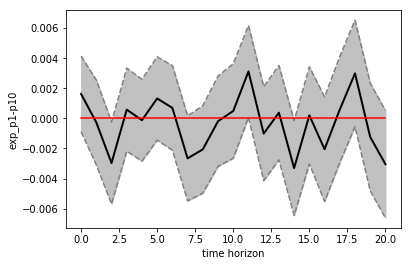
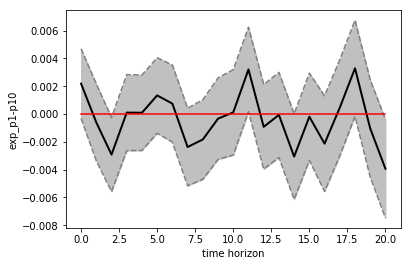
version

diff --git a/analysis/7_LP_estimation.py b/analysis/7_LP_estimation.py
@@ -70,7 +70,7 @@ X = {}
 for k in [stdev, gini_coeff, p90_p10, exp_10, exp_90]:
     X[k.name] = pd.DataFrame()
     X[k.name]["const"] = np.ones(len(shock_series))
-    for i in range(21):
+    for i in range(20):
         X[k.name]["rr_L" + str(i)] = shock_series["Shock_values"].shift(i)
     for j in range(1, 7):
         X[k.name]["dy_" + str(j)] = k.shift(j) - k.shift(j + 1)
